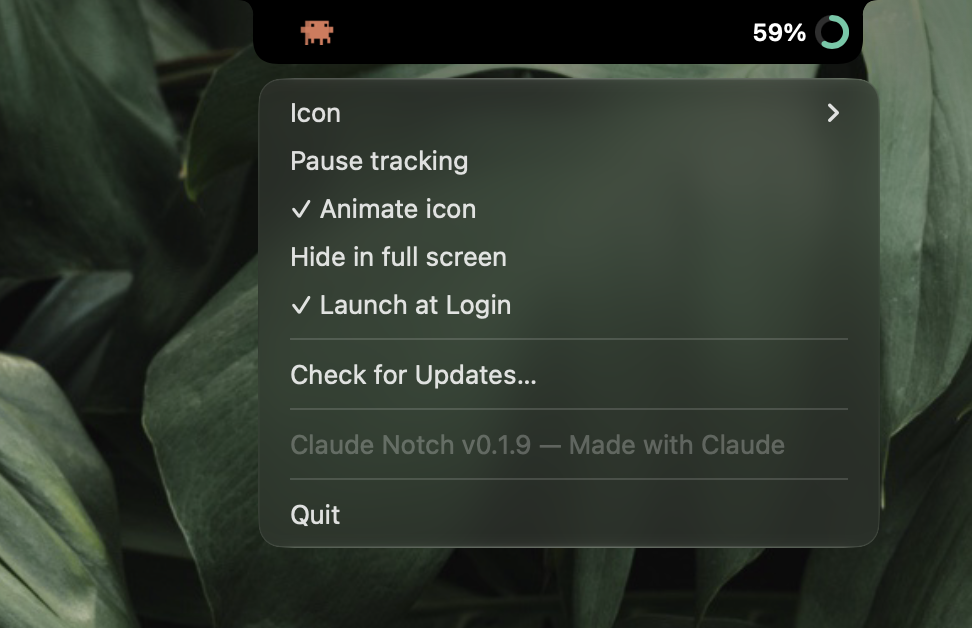
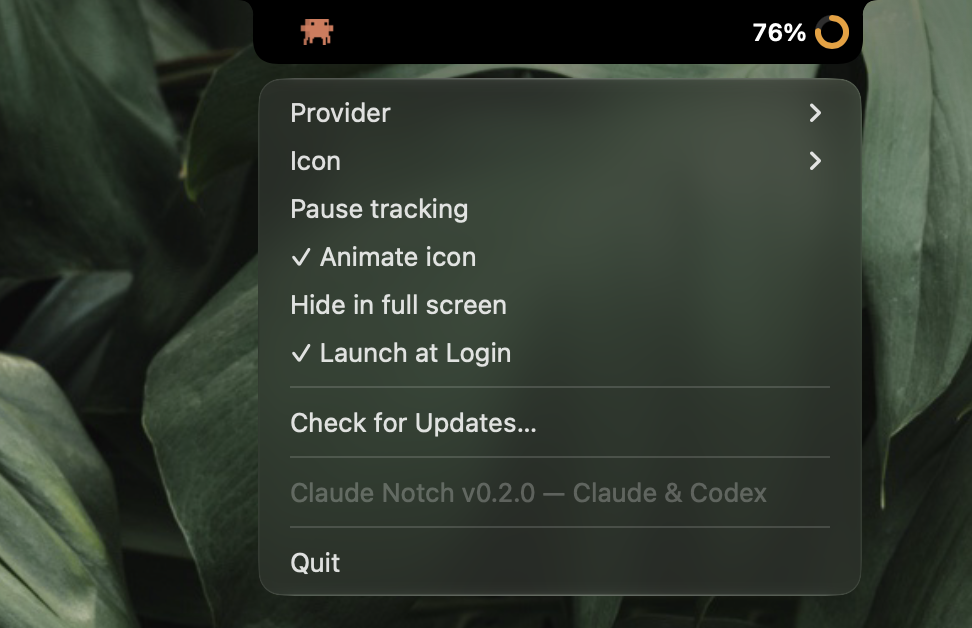
docs: Codex screenshots, refreshed settings shot, provider-switch gif
New screenshots row for the Codex limits and tasks pages, a refreshed
settings shot showing the Provider menu and the Claude & Codex footer,
and a switching gif (Claude expanded morphing to Codex in place, then
collapsing). Captions and alt text updated.

diff --git a/README.md b/README.md
@@ -39,11 +39,26 @@ your spend and sessions sit behind. Click away and it glides shut. No Dock icon,
   <sub><b>All-time top projects</b>: tap the ⇄ chip to switch</sub>
 </td>
 <td align="center" width="50%">
-  <img src="docs/settings.png" width="340" alt="Right-click settings menu: icon, pause, hide in full screen, launch at login, updates" /><br/>
+  <img src="docs/settings.png" width="340" alt="Right-click settings menu: provider, icon, pause, hide in full screen, launch at login, updates" /><br/>
   <sub><b>Settings</b>: right-click the island</sub>
 </td>
 </tr>
+<tr>
+<td align="center" width="50%">
+  <img src="docs/codex-limits.png" width="340" alt="Codex limits page: weekly window, tokens, credits, plan, peak day, longest task" /><br/>
+  <sub><b>Codex limits</b>: windows, credits, plan + lifetime stats</sub>
+</td>
+<td align="center" width="50%">
+  <img src="docs/codex-tasks.png" width="340" alt="Codex detail page: account token totals and recent tasks" /><br/>
+  <sub><b>Codex tasks</b>: account totals + recent tasks</sub>
+</td>
+</tr>
 </table>
+
+<div align="center">
+  <img src="docs/switch.gif" width="640" alt="One click on the left icon switches the island between Claude and Codex, collapsed or expanded" /><br/>
+  <sub><b>One click switches providers</b>: Claude ⇄ Codex, even while expanded</sub>
+</div>
 
 ## Features
 